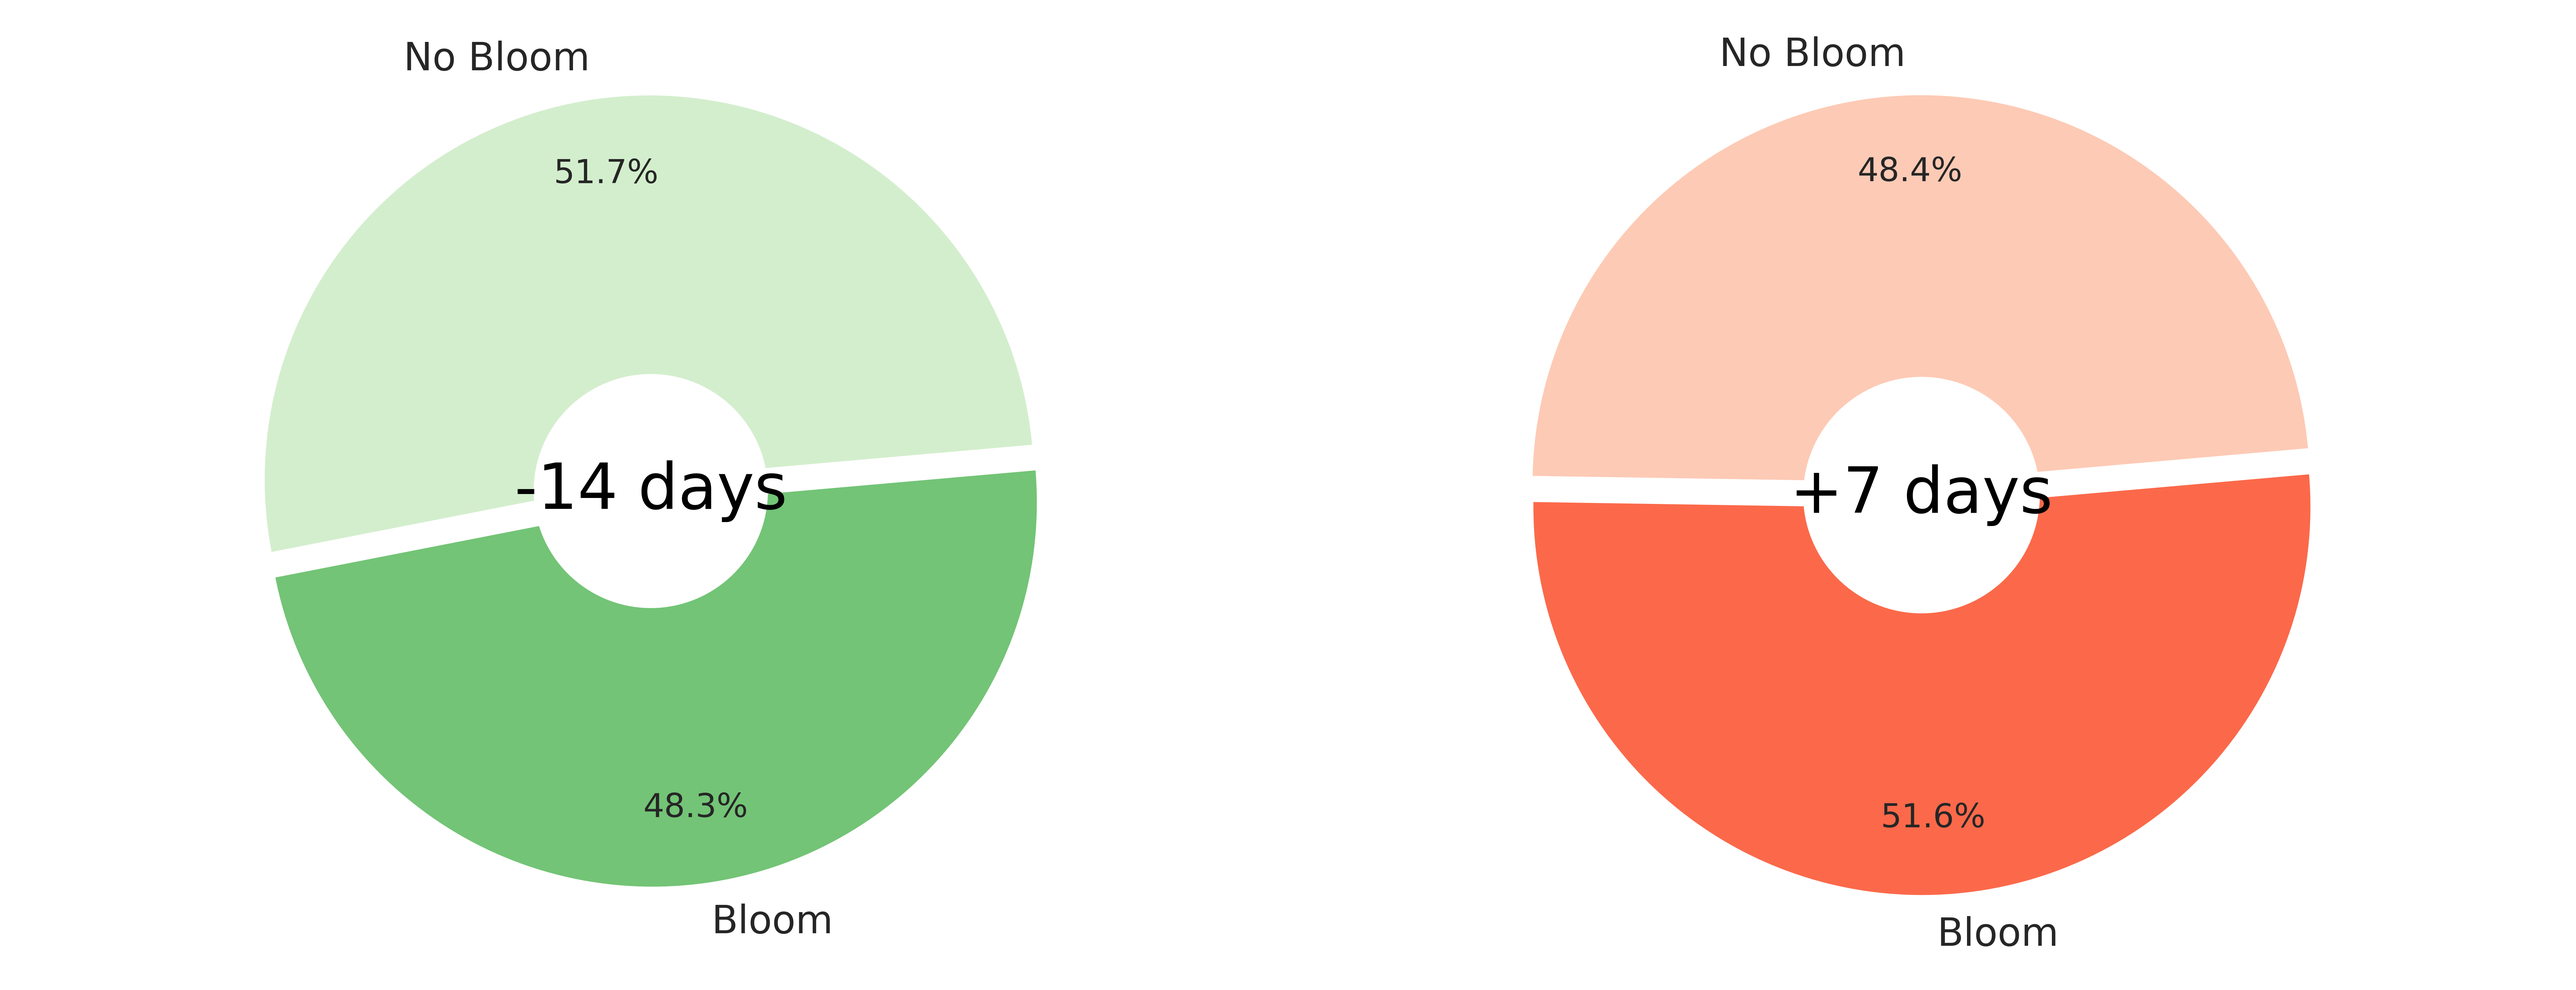
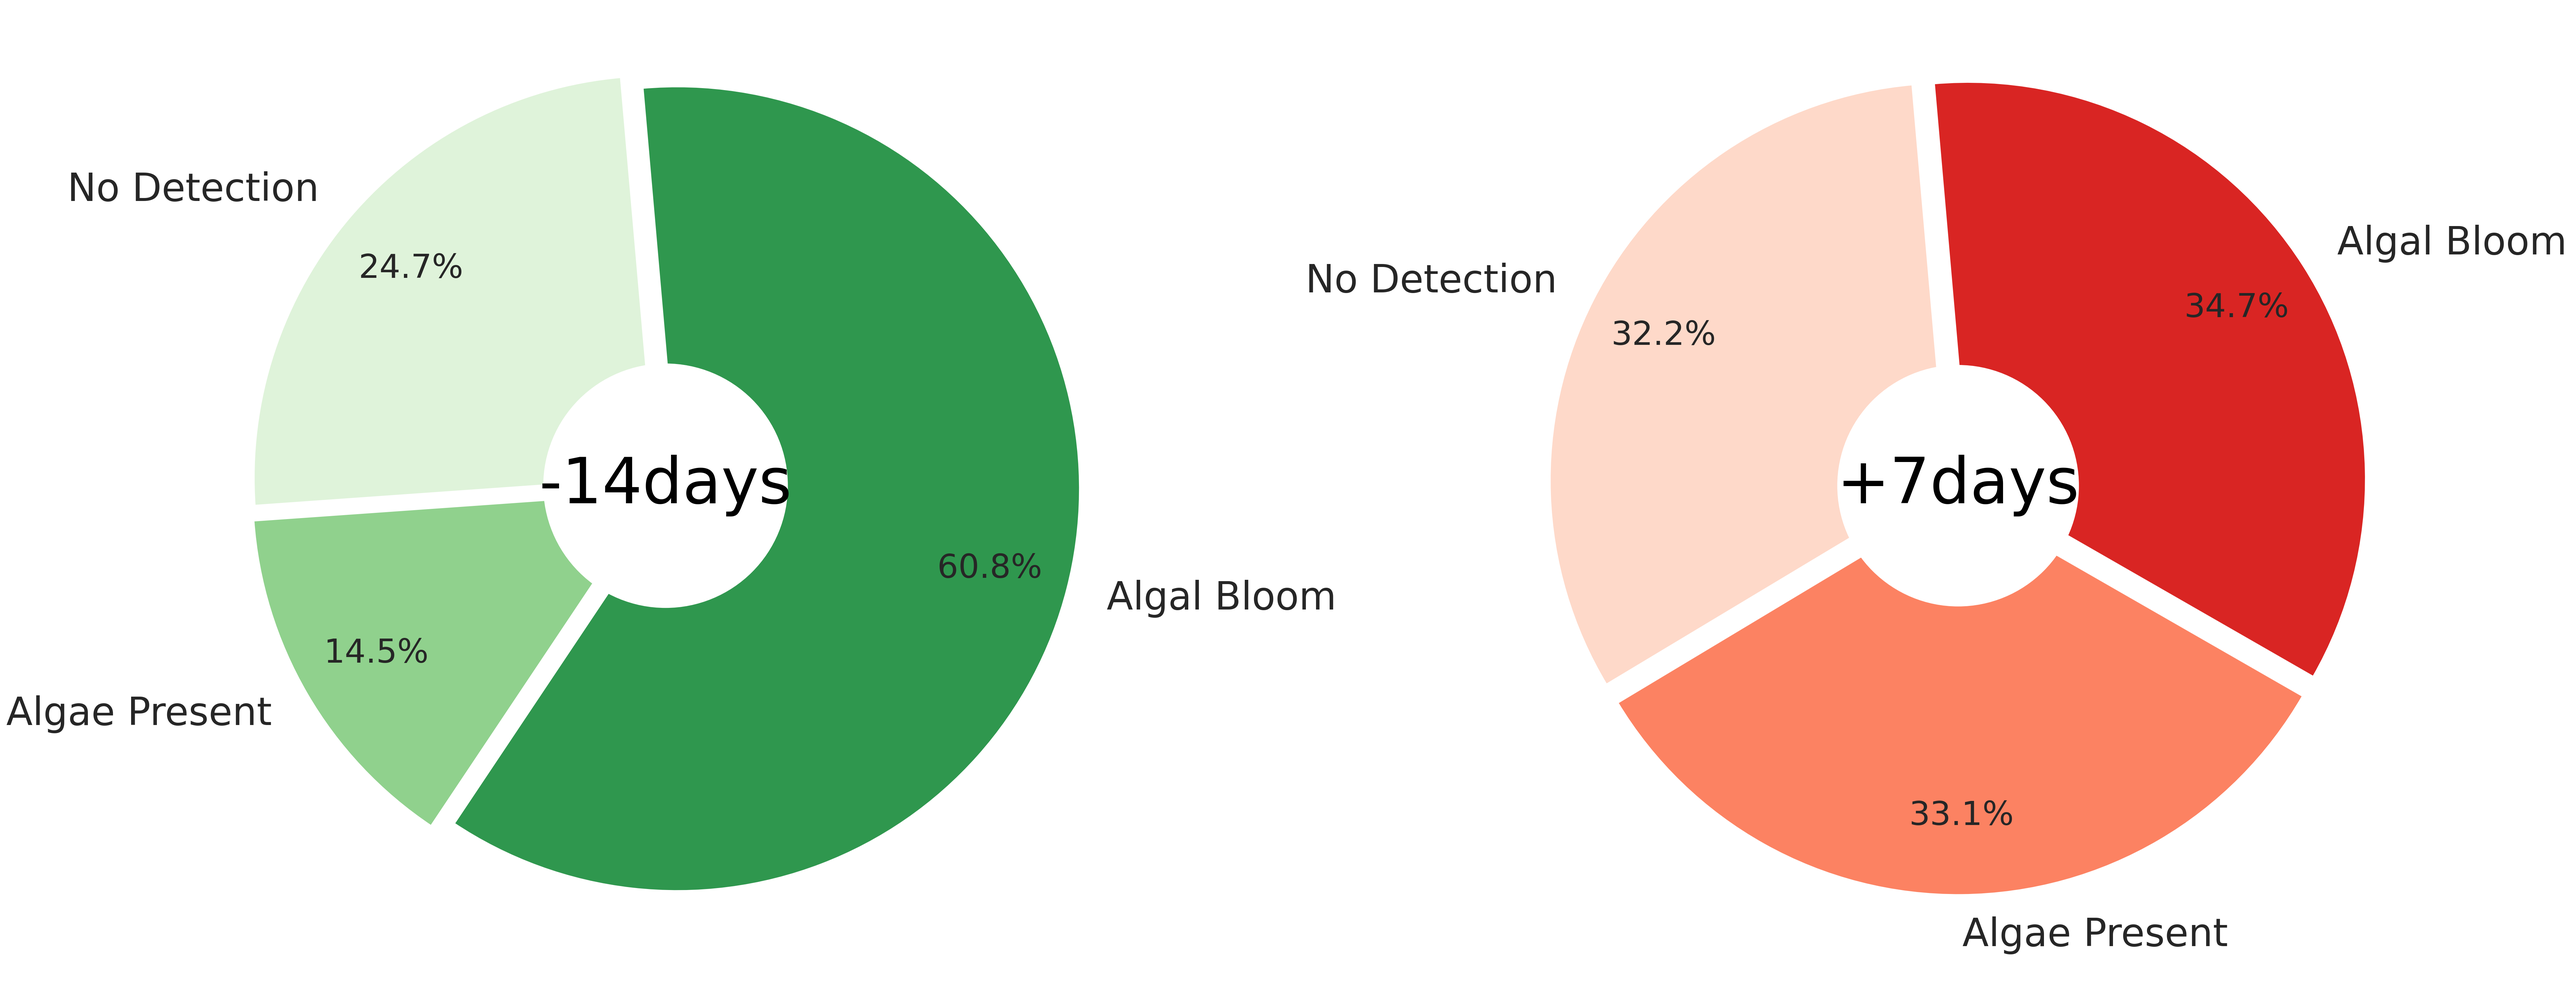
daily blog update

diff --git a/_posts/2022-06-05-blog067.md b/_posts/2022-06-05-blog067.md
@@ -1,0 +1,45 @@
+---
+title: "Jun 05, 2022"
+excerpt: "HAB update"
+image: /assets/images/detroit.jpg
+tags: 
+  - hab
+  - prediction
+---
+
+Click here to see the live and interactive [Harmful Algal Bloom dashboard](https://detroitlake.clrwater.io/).
+
+## 7-day Look Ahead Bloom Forecast
+Below are pie charts describing the __probability of a cyanobacterial bloom__. The one on the left describes the predictions from two weeks ago, and the one on the right describes the latest prediction, for the coming week. 
+![image-center]({{ site.url }}{{ site.baseurl }}/assets/images/20220605/Fig_prediction.png)
+__Probabilities for different levels of cyanobacterial concentrations from two weeks ago (left) and for the next 7 days (right).__
+
+## Hotspot Analysis - Chlorophyll-a
+This map shows you the latest estimates of __chlorophyll-a__ from the Sentinel 2a satellite. Note that the color scale is normalized to highlight the hotspots in the image relative to yearly maxima and minima. The colorscale does not provide an indication of the absolute amount of chlorophyll-a in the water and should be interpreted as an "index" of chlorophyll-a.
+![image-center]({{ site.url }}{{ site.baseurl }}/assets/images/20220605/Fig_chla.png){: .align-center}
+<br clear="all" />
+__Latest chlorophyll-a map from the Sentinel 2a satelllite.__
+
+## Hotspot Analysis - CyAN
+This map shows you the latest estimates of the concentration of cyanobacteria (cells/ml) from the EPA CyAN program.
+![image-center]({{ site.url }}{{ site.baseurl }}/assets/images/20220605/Fig_cyan.png){: .align-center}
+<br clear="all" />
+__Latest CyAN map from the EPA.__
+
+
+## Where we are in the season
+This plot shows the __historical expectation for HAB risk__ over the year. Use this chart to see where we are in the season (identified by the vertical red line). 
+![image-center]({{ site.url }}{{ site.baseurl }}/assets/images/20220605/Fig_climatology.png){: .     align-center}
+__Harmful algal bloom risk over the year__.
+
+## How rainy has it been? 
+We know that in general certain weather conditions promote the likelihood of HABs. Check this chart to see 
+how __wet__ it is, relative to past years. This is simply adding up each day's rainfall, for each year. If the red line is below the orange line, then this year is dryer than average.
+![image-center]({{ site.url }}{{ site.baseurl }}/assets/images/20220605/Fig_precip_cumsum.png){: .     align-center}
+__Precipitation at the lake compared to previous years__.
+
+## How hot has it been? 
+We know that in general certain weather conditions promote the likelihood of HABs. Check this chart to see 
+how __hot__ it is, relative to past years. This is simply adding up each day's temperature, for each year. If the red line is above the orange line, this year is hotter than average.
+![image-center]({{ site.url }}{{ site.baseurl }}/assets/images/20220605/Fig_temp_cumsum.png){: .     align-center}
+__Air temperature at the lake compared to previous years__.
